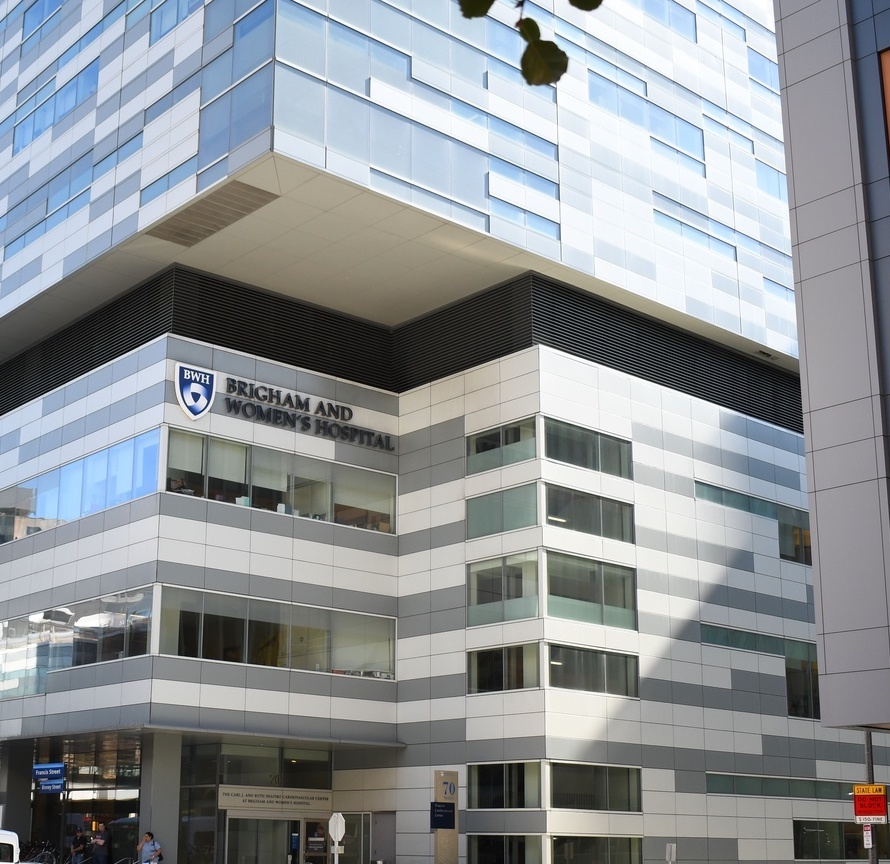
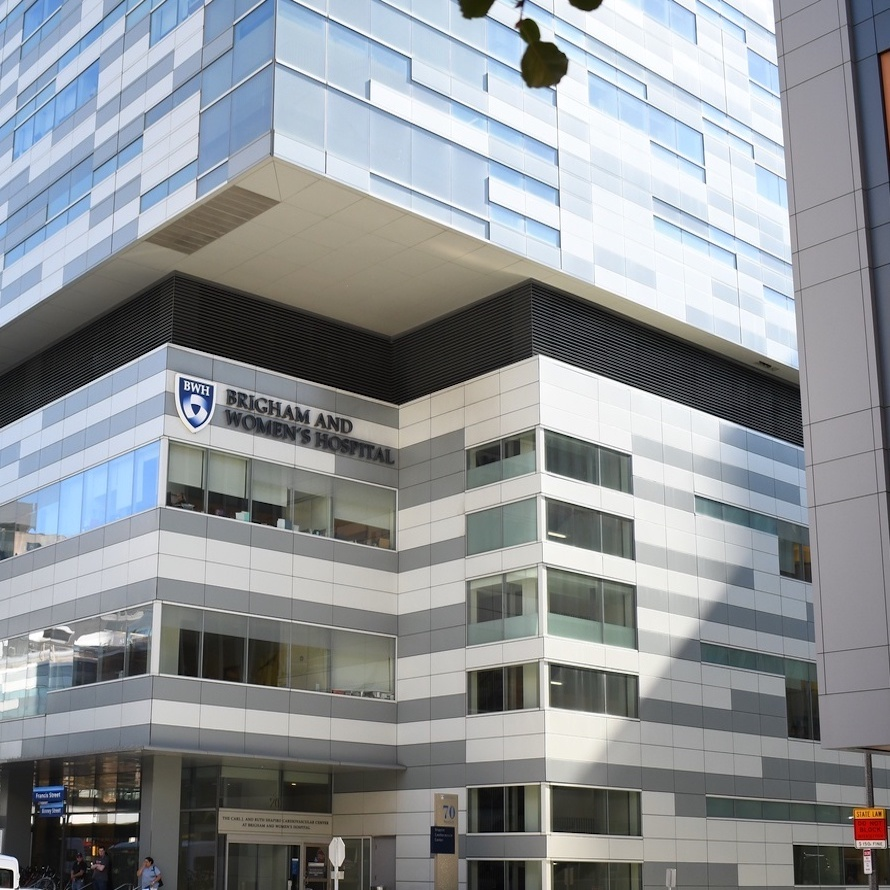
please let this work oh my god

Changed region(s): [[0.6067, 0.3438, 0.8494, 0.4688], [0.8494, 0.4688, 0.9101, 0.5], [0.0303, 0.4375, 0.0607, 0.4688]]

diff --git a/src/main/resources/edu/wpi/teamA/views/stylesheets/login.css b/src/main/resources/edu/wpi/teamA/views/stylesheets/login.css
@@ -1,0 +1,15 @@
+@import "main.css";
+
+.root{}
+
+.anchorpane-image{
+    -fx-background-image: url("../../images/home-page/bwh-outside-cropped.jpg");
+    -fx-background-insets: 0;
+    -fx-background-size: cover;
+    -fx-scale-shape: true;
+}
+
+.anchorpane{
+    -fx-background-size: cover;
+    -fx-scale-shape: true;
+}

diff --git a/src/main/resources/edu/wpi/teamA/views/stylesheets/home.css b/src/main/resources/edu/wpi/teamA/views/stylesheets/home.css
@@ -8,4 +8,3 @@
     -fx-background-repeat: no-repeat;
     -fx-background-size: stretch;
 }
-

diff --git a/src/main/java/edu/wpi/teamA/controllers/Navigation/LoginController.java b/src/main/java/edu/wpi/teamA/controllers/Navigation/LoginController.java
@@ -10,6 +10,7 @@ import javafx.scene.control.Button;
 import javafx.scene.control.Label;
 import javafx.scene.control.PasswordField;
 import javafx.scene.control.TextField;
+import javafx.scene.layout.AnchorPane;
 import javafx.stage.Stage;
 
 public class LoginController {
@@ -18,6 +19,7 @@ public class LoginController {
   @FXML private Label loginMessageLabel;
   @FXML private TextField usernameTextField;
   @FXML private PasswordField passwordTextField;
+  @FXML private AnchorPane imagePane;
 
   UserDAOImp checker = new UserDAOImp();
 
@@ -33,6 +35,7 @@ public class LoginController {
   }
 
   public void login() {
+
     String username = usernameTextField.getText();
     String password = passwordTextField.getText();
 
